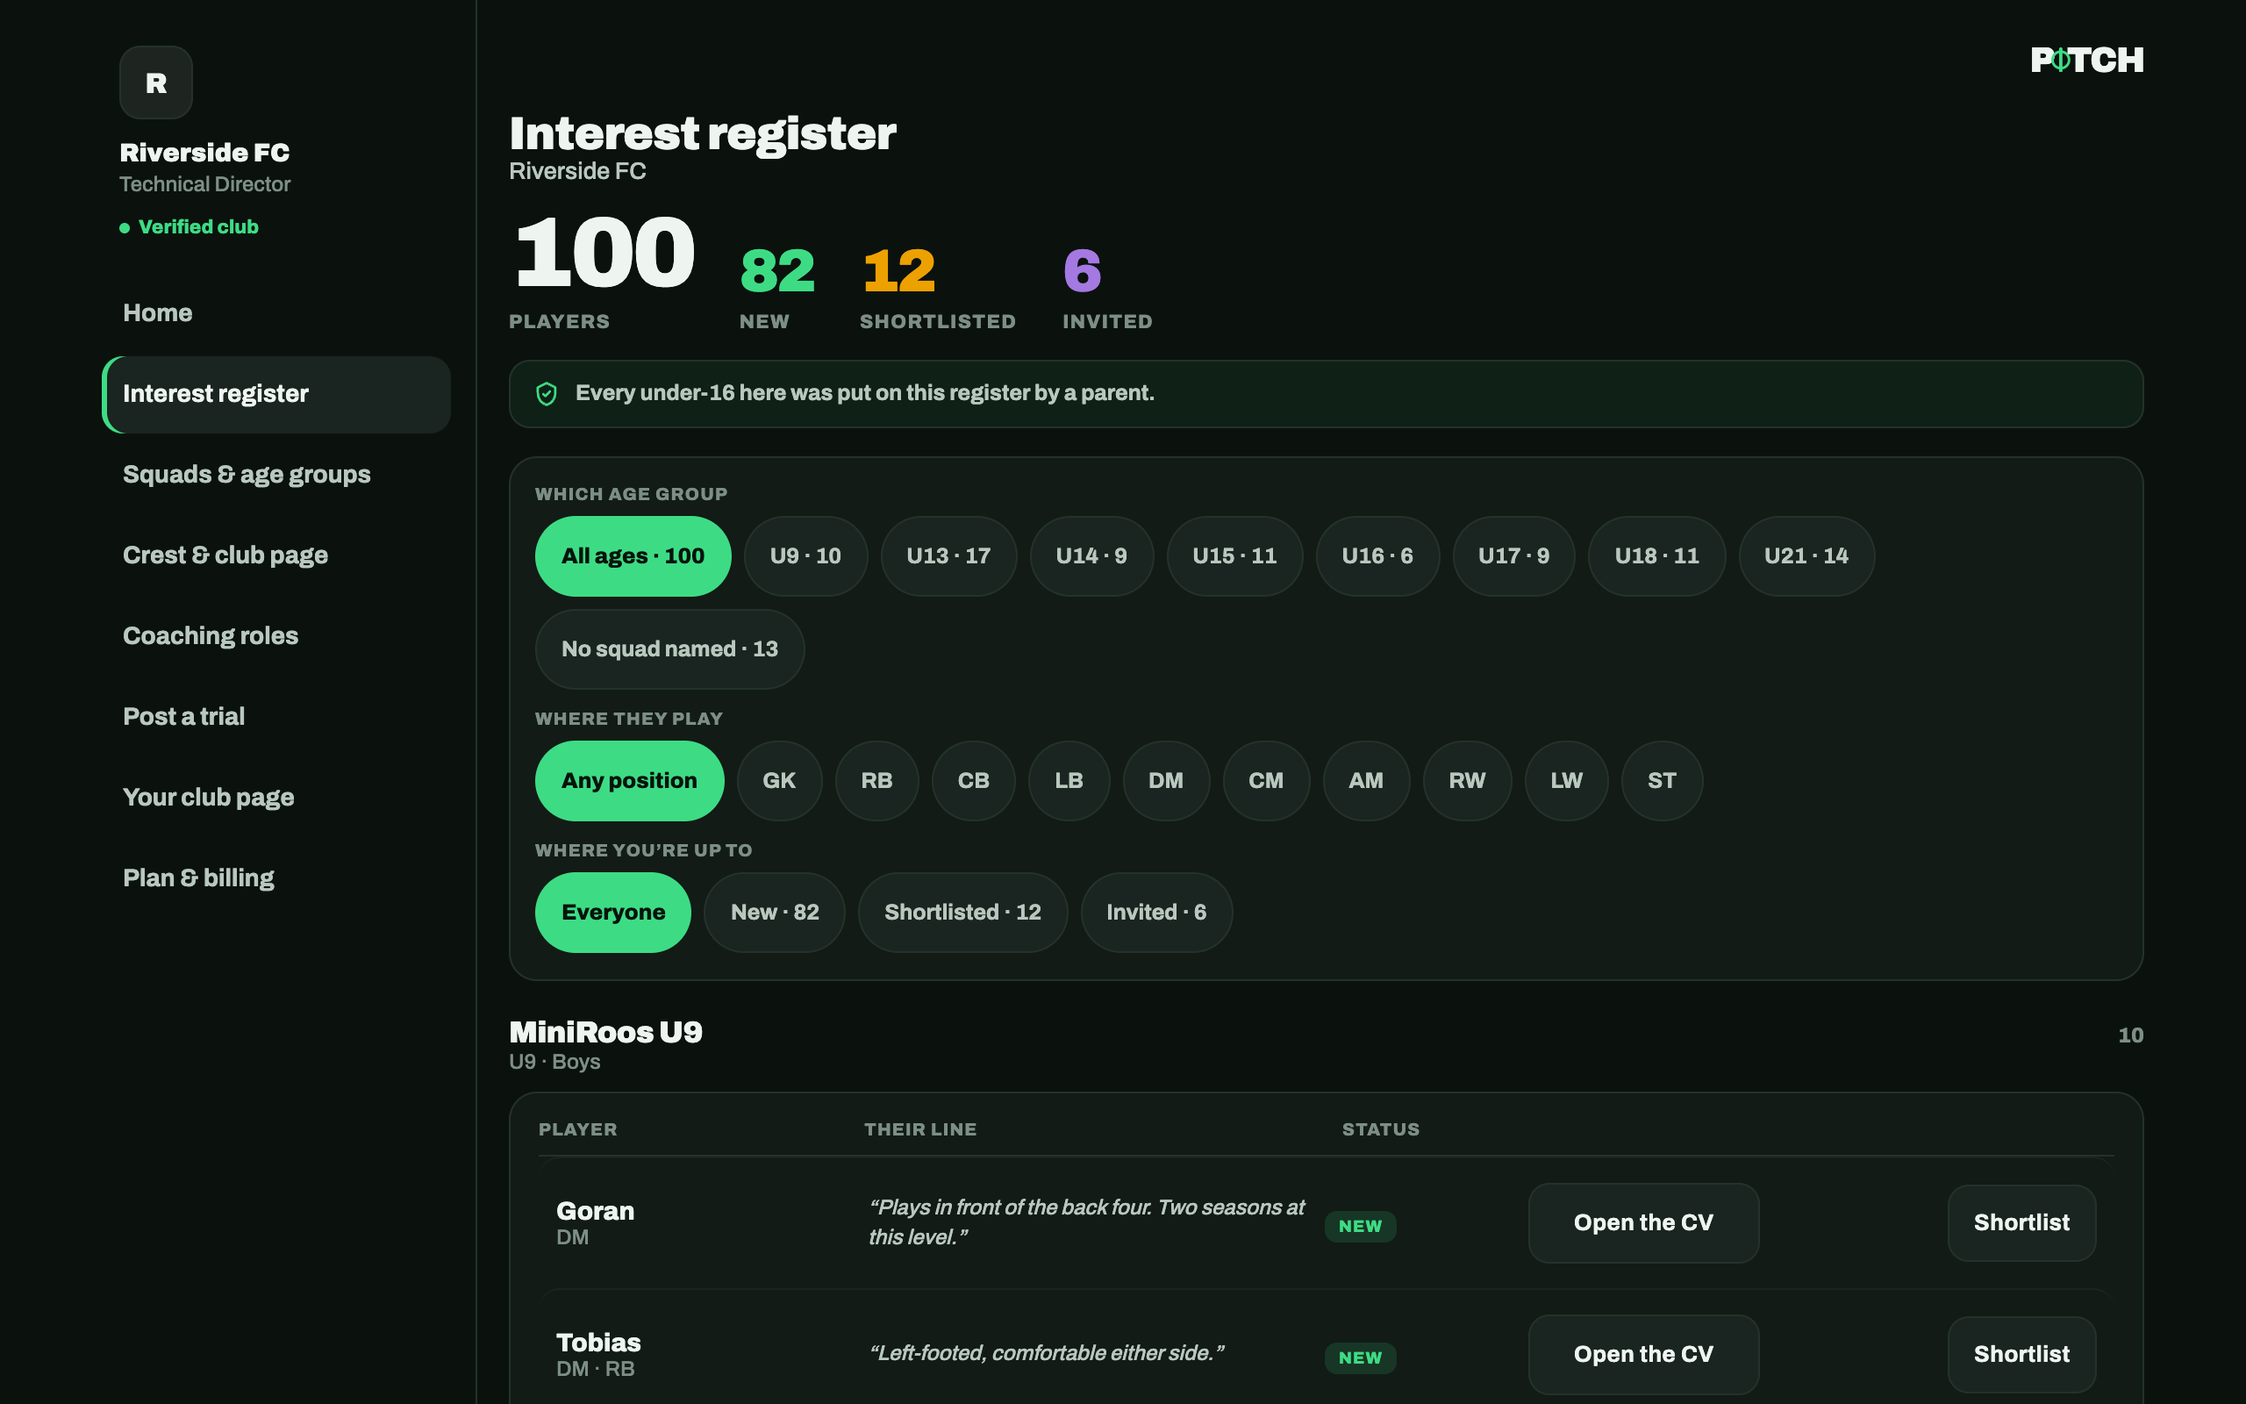
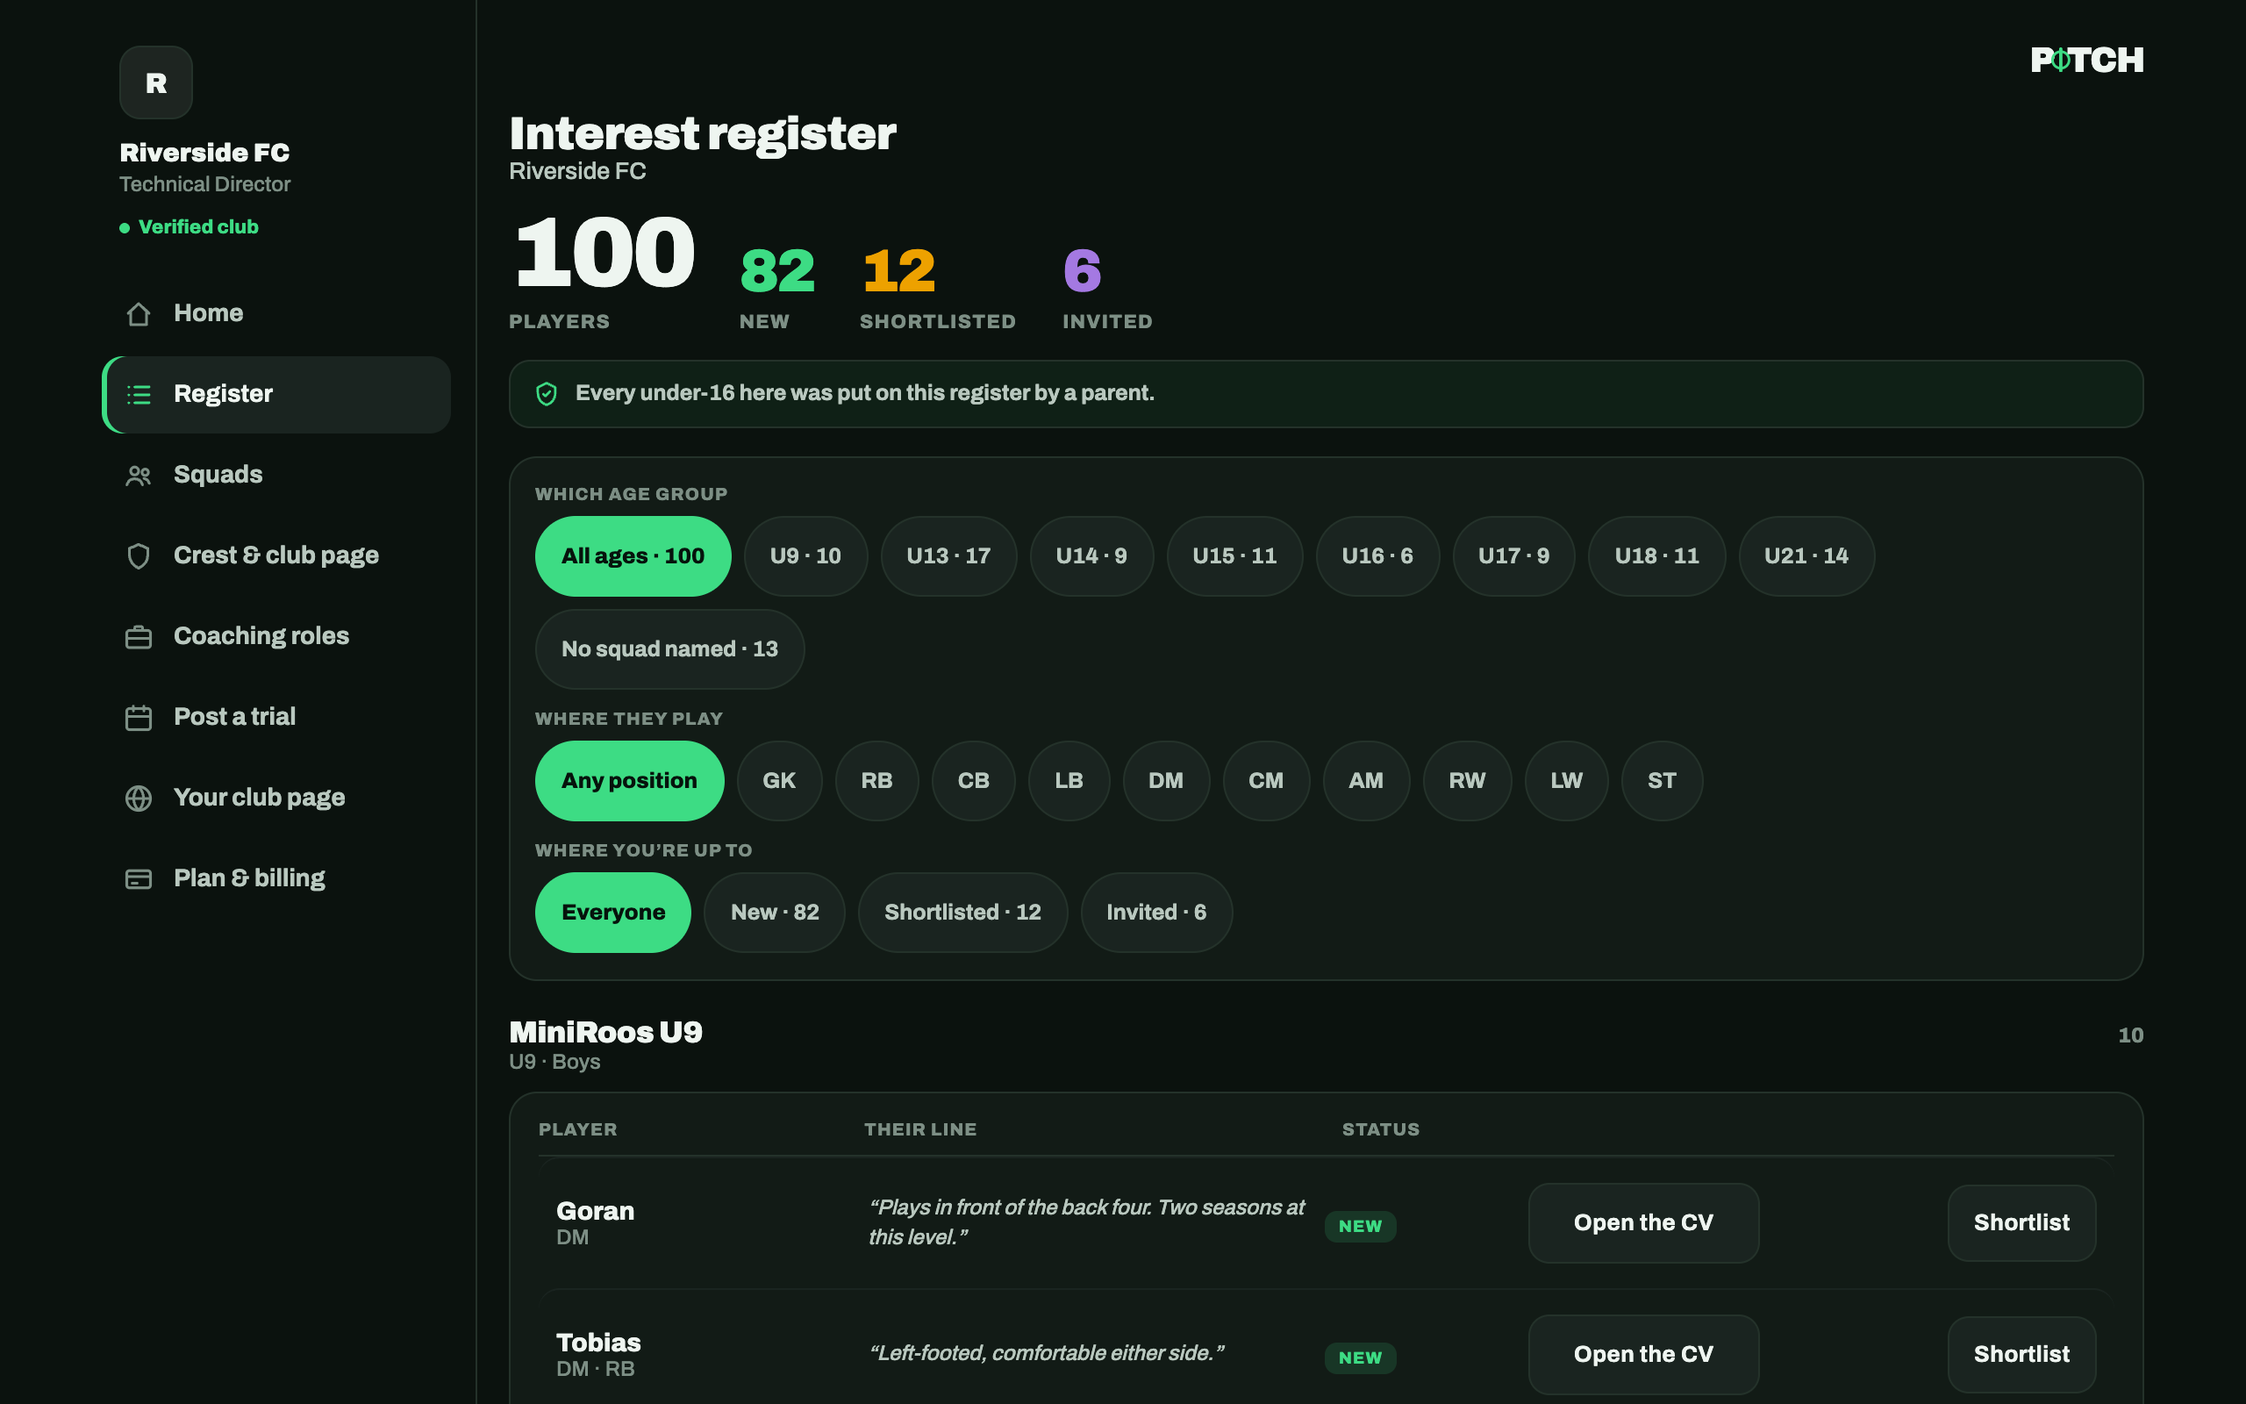
Walkthrough rewritten as the tour of the redesign; club deck capture
docs/WALKTHROUGH.md covers:
- every seat and where it lands
- what changed in the redesign
- the overnight work
- how to run each suite, with the latest counts

The club register deck capture now shows the club sidebar. It's the
only deck picture that changed; the rest match pixel for pixel and
were left alone.

diff --git a/docs/WALKTHROUGH.md b/docs/WALKTHROUGH.md
@@ -1,10 +1,11 @@
-# Pitch — walkthrough script
+# Pitch — walkthrough
 
-**Everything below runs on your machine only.** Nothing is live. The site at
-pitchfootball.com.au is still the coming-soon page; the app lives on the local
-`app` branch, which has never been pushed.
+**Everything below runs on your machine only.** The app lives on the local
+`app` branch, which has never been pushed. pitchfootball.com.au is the
+marketing site on `main`, and only changes when you say so.
 
-Both servers are already running. If you ever need to restart them:
+Two things need to be running. The desktop app starts both for you; if you
+ever need to start them by hand:
 
 ```bash
 cd "/Users/bdonmez22/Desktop/Life/Work/Pitch 3.0/repo" && node scripts/dev-db.mts
@@ -16,180 +17,145 @@ then in a second terminal:
 cd "/Users/bdonmez22/Desktop/Life/Work/Pitch 3.0/repo" && npm run dev
 ```
 
-**http://localhost:3000 is still the coming-soon page, on purpose** — the app
-does not replace it, it sits alongside it on its own routes. The waitlist page
-stays the front door until you say otherwise.
+**http://localhost:3000 is still the old coming-soon page, on purpose.** The
+app starts at **http://localhost:3000/signin**.
 
-The app starts at **http://localhost:3000/signin**. The other entry points:
+## Seats
 
-| | |
-|---|---|
-| Sign in (all four seats) | `/signin` |
-| Create an account | `/join` |
-| A player's public CV, as a club sees it | `/p/dev-deniz` |
-| An adult player's CV (18+ — no guardian anywhere) | `/p/dev-jordan` |
-| A dead share link | `/p/dev-revoked` |
-| The trials noticeboard | `/trials` |
-| A coach's public page | `/c/sam-kaya` |
-| A club's public page | `/fc/riverside-fc` |
-| Change seats | `/signout` |
-| The local stand-in for the inbox | `/dev/outbox` |
+Leave the password box empty: in development an account with no password
+signs in on the email alone, so you can hop between seats. Production has no
+such shortcut. **Go to `/signout` before changing seats.**
 
-Sign in with any of these. **Leave the password box empty** — these four seats
-have no password set, and in development an account without one signs in on the
-email alone so you can hop between seats freely. (In production that shortcut
-does not exist; a password is required.)
+| Who | Email | Lands on |
+|---|---|---|
+| Alex — parent of Deniz, Nate and Georgia | `guardian@example.com` | Your family |
+| Jordan — adult player | `player@example.com` | Player home |
+| Nate — 16–17 player | `nate@example.com` | Player home |
+| Sam Kaya — coach | `coach@example.com` | Coach home |
+| Marina — Technical Director, Riverside FC (verified) | `td@example.com` | Club home |
+| Pat — club administrator | `admin@example.com` | Club home |
+| Sunbury United — claimed, not verified | `sunbury@example.com` | Club home |
+| Kingsway — verified, free plan | `kingsway@example.com` | Club home |
+| A brand-new account | `new@example.com` | Nothing yet |
 
-| Who | Email |
-|---|---|
-| Alex — parent of all three players | `guardian@example.com` |
-| Marina — Technical Director, Riverside FC | `td@example.com` |
-| Sam Kaya — coach | `coach@example.com` |
-| Sunbury United — claimed but NOT yet verified | `sunbury@example.com` |
-
-**To change seats, go to `/signout` first** — otherwise you are still wearing the
-last hat and the pages will look wrong.
-
-If you want to see the real password machinery, do this once with Alex:
-`/reset` → type `guardian@example.com` → the screen says *"If there's a Pitch
-account for that address, a reset link is on its way"* (it says exactly that
-whether or not the account exists — the message is not allowed to tell a
-stranger who has an account) → open **`/dev/outbox`**, which is the local stand-in
-for the inbox until Resend is wired, and follow the reset link → set a password →
-sign in with it. That link then dies: opening it a second time refuses and sends
-you back to `/reset`. Alex now needs that password, so remember it or reset again.
+Pages that need no sign-in: `/p/dev-deniz` (a player's CV as a club sees it),
+`/p/dev-jordan` (an adult's), `/p/dev-revoked` (a dead link), `/trials`,
+`/c/sam-kaya` (coach page), `/fc/riverside-fc` (club page), `/dev/outbox`
+(the local stand-in for the inbox).
 
 ---
 
-## 1 · The stranger — what a club sees when a link arrives
+## What changed in the redesign (15–16 Sep)
 
-Open these without signing in. This is the product's front door.
+Every signed-in seat now sits inside a frame: a sidebar on a laptop and a
+tab bar on a phone. A frame only offers pages that seat's home already links
+to, and the render tests check this for every seat. Try each one at phone
+width (the desktop app's Viewport menu) and at laptop width.
 
-1. **http://localhost:3000/p/dev-deniz** — Deniz's CV as a club sees it.
-   *Watch:* the stats count up like a scoreboard, the small pitch in the hero
-   pings his position, "Parent-approved", a clip you can press play on
-   (nothing loads from YouTube until you do).
-2. **http://localhost:3000/p/dev-nate** — the keeper test. Two numbers only,
-   and no negative statistic exists anywhere. Does it still look worth sending?
-3. **http://localhost:3000/p/dev-georgia** — the sparse test: modest numbers,
-   one clip. Does it still look like a real CV?
-4. **http://localhost:3000/p/dev-expired** — an expired link.
-   Then **/p/dev-revoked**, then make one up: **/p/anything**.
-   *Watch:* all three are the identical page. Nobody can use a wrong link to
-   find out whether a child is on Pitch.
-5. **http://localhost:3000/p/dev-deniz/opengraph-image** — the card that shows
-   in WhatsApp. First name + initial, never his club or age.
+### 1 · The player — `player@example.com`, then `nate@example.com`
 
-Public pages worth a look: **/c/sam-kaya** (coach CV), **/fc/riverside-fc**
-(club page — girls' and women's squads as first-class rows, alumni wall),
-**/trials** (the board: verified clubs vs compiled listings).
+- **Home** is a dashboard now: how far through the six steps you are, the
+  next trial that fits you, and your link.
+- **Build your CV** shows progress as you type: number, about and stats fill
+  the ring live. Positions are short codes in two rows. Tap one and its full
+  name shows underneath.
+- Finish all six and you land on **the moment** (`/build/…/ready`): your page
+  is ready, or live, or, for an under-16, sent to your parent.
+- **Trials** has filters: age group (only the groups actually on the board),
+  gender, state and position. They sit behind a button on a phone and in a card
+  on a laptop. Chips remove one filter at a time, with counts.
 
----
+### 2 · The parent — `guardian@example.com`
 
-## 2 · The parent — sign in as `guardian@example.com`
+- A tab per child, or one **Children** tab once there are more than two.
+- **Manage** a child, then **Everything that's happened**: every club a CV
+  went to now has its own **Take this one off**. It switches off that one
+  link and leaves the rest alone. You get a confirmation, and the history
+  says "one link switched off".
+- The four waiting items (trial invite, a send to approve, a register
+  request, a changed page) work as before.
 
-You land on **Your family**. Three children, each with their real status.
-There are four things waiting on you — open each:
+### 3 · The coach — `coach@example.com`
 
-1. **Riverside FC would like Georgia at a trial** → *Review it*.
-   *Watch:* Georgia has not been told. Read the club's note, then
-   *Reply* — everything you could hand over starts switched **off**.
-2. **Georgia wants to send her CV to Sunbury United** → *Review it*.
-   *Watch:* the address she typed, what the club gets and never gets, and
-   "do nothing and this disappears by itself".
-3. **Nate wants to go on Riverside's register** → *Read it*.
-   *Watch:* his exact words, before they reach anyone.
-4. **Deniz changed his page** → *Review it*.
-   *Watch:* his old words struck through against the new ones. Until you
-   approve, every club holding his link still reads the old version.
+- **Coach home** has the steps to a finished coach page, the teams you read
+  the register for (names only, never a count), open roles and a copy button
+  for your page.
+- Tabs: Home · My CV · Registrations (only if a club gave you access) · Roles.
+- **New (needs your OK):** a coach page is an adult's page. Someone under 18
+  can keep a coach profile, but it can never be given a public link or a
+  public contact. The database refuses both, the page and sitemap won't show
+  one, and the editor doesn't offer the contact field to an under-18. Sign
+  in as `nate@example.com` and open `/coach/edit` to see it.
 
-Then **Manage** on any child — the cockpit:
-- His link (shown as a fragment; the full link only ever appears once, when
-  it's made)
-- **Renew** / **Replace** — replacing kills the old one for everyone, instantly
-- The **pause** switch — flip it, then open his `/p/` link in another tab: dead.
-  Flip it back: alive.
-- **Everything that's happened** — your consent history in plain words
-- **Delete everything** — the honest copy about the one thing we keep
+### 4 · The club — `td@example.com`
 
----
+- **Club home** is new: how many are on the register (the TD only), your
+  trials with how many are interested, open roles, and your page link.
+- Tabs on a phone: Home · Register · Squads, then **More** for the rest.
+- **Post a trial** picks age groups, gender and positions as chips. **Your
+  trials** lists what you've posted, and **Change** edits one. The date locks
+  once anyone has registered.
+- **Register**: the table fits the card at laptop width, and the status chips
+  use the palette.
+- Sign in as `sunbury@example.com` and open Register: a count and not one
+  name, until you verify them.
 
-**The adult band without signing up:** open **http://localhost:3000/p/dev-jordan**.
-Jordan is 22. Compare it to Deniz: no *Parent-approved* chip, and no "there is
-no way to reply to a family" block — an adult is reachable through their own
-account and has no guardian to point a club at. His page is assembled live
-from his own record; there is no approval step between him and it.
+### 5 · You, the operator
 
----
-
-## 3 · The player — sign in as an adult you create
-
-Go to **http://localhost:3000/join**, choose Player, use a birthday that makes
-you 18+, tick the terms, and create an account with any email. You land on your
-own build surface: **Build your CV** (positions as tap chips, your number,
-about, stats where blank stays blank — no zeros), **Highlights** (paste a
-YouTube link), **Achievements & other football**.
-
-To see the under-16 door instead, start again with a birthday that makes you 14
-— you'll be asked for a parent's name and mobile, then land on
-*"Your page is built. One person to go."*
+**/ops/verification** has the same frame with its own bar. Open Sunbury's
+call sheet, log it as verified, then sign back in as `sunbury@example.com`
+and watch the register go from a count to named players.
 
 ---
 
-## 4 · The club — sign in as `td@example.com`
+## Overnight, 16–17 Sep
 
-**http://localhost:3000/club/register** — the Interest Register, the thing
-clubs pay for.
-- On a wide window it's a table; on a phone it's cards. Same data, same actions.
-- Nate is shortlisted → **Invite to trial** opens the composer. Read
-  "Where this actually goes" before you send.
-- **Open the CV** on any row.
-- Read the two cards at the bottom: *There is no download* and
-  *New, shortlisted, invited — and nothing else*.
-
-**http://localhost:3000/club/post-trial** — post a trial; it appears on the
-club page and the trials board the same minute.
-
-Now sign in as **`sunbury@example.com`** and open **/club/register** again.
-*Watch:* a count and not one name — "Paying doesn't change it and can't."
-
----
-
-## 5 · You, the operator
-
-**http://localhost:3000/ops/verification** — clubs awaiting your call, with
-their held counts. Open Sunbury's **call sheet**: the thirteen fields, your
-name required as operator, and where you found the number required.
-Log it as **verified** — then sign back in as `sunbury@example.com` and watch
-the register go from a bare count to named players.
+- **Coach pages are adults only** (above). Migration 0042, with seven
+  permission checks and two render checks.
+- **Security headers:** every page now carries a Content-Security-Policy.
+  Scripts run only from this site and only with a one-time code for that
+  request, and no other site can frame a page. Every page renders fresh per
+  request so the code is always there.
+- **Tap targets:** every text box sits inside a card that is the tap target,
+  so the whole card (at least 44px) focuses the field. Save as PDF is 44px.
+  Links inside sentences are left as they are, which the accessibility
+  standard allows.
+- **A dead link fixed:** "Copy this link" on a coach page copied
+  `pitchfootball.com.au/<name>` with no `/c/`. It copies the real address now.
+- **A full sweep:** every page, as every seat, at phone and laptop width.
+  Result in the summary.
 
 ---
 
 ## Running the checks
 
-Two suites, and the difference between them is the point.
-
 ```bash
 npm run test:perms
 ```
 
-696 checks against Postgres and the source. It needs no server.
+Permission and gate checks against Postgres and the source. No server needed.
 
 ```bash
 npm run test:render
 ```
 
-32 checks that fetch the actual pages and read what you would see. It needs
-both dev processes running, because it signs in as the fixture people and
-asks the product what it serves. It exists because a check that reads source
-text can be green while the thing it describes is false — that happened
-twice, and the second time it was hiding a 500 on every signed-in builder
-route.
+Fetches the real pages as each seat and reads what they serve. Needs both
+processes running.
+
+Also: `node scripts/write-tests.mjs` (it changes the dev database, so
+restart `dev-db.mts` afterwards), `node scripts/gate-coverage.mjs`,
+`node scripts/palette-check.mjs`, `python3 scripts/corpus-check.py` and
+`npx tsc --noEmit`.
+
+Last full run (17 Sep, overnight): typecheck clean · palette green ·
+render 330/330 · write 92/92 · permission 827/827 · gate 261/261 open 0 ·
+corpus clean. Also checked in a production build: 400 page views across
+10 seats with no security-policy errors, and the pages come alive
+(builder progress, trials filters).
 
 ---
 
 ## What to tell me
 
-Anything that feels wrong, ugly, slow, confusing, or off-brand. Screens I
-should push harder on. Copy that doesn't sound like you. I'll take the list as
-the punch list — the full design polish pass is still deliberately open.
+Anything that feels wrong, ugly, slow or confusing, and any copy that doesn't
+sound like you.
